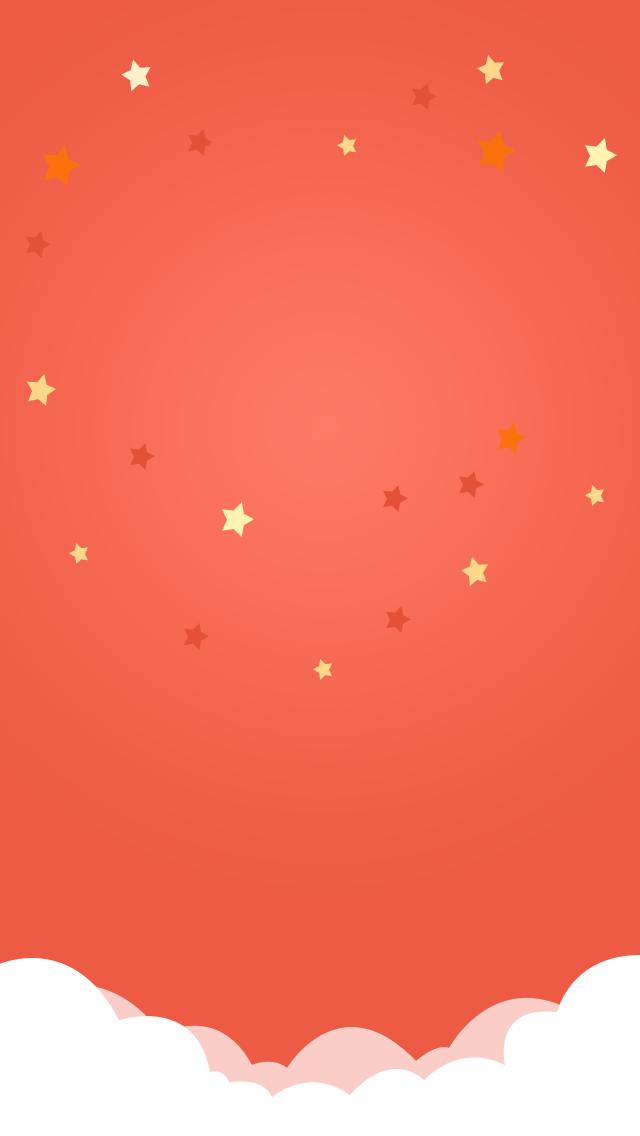
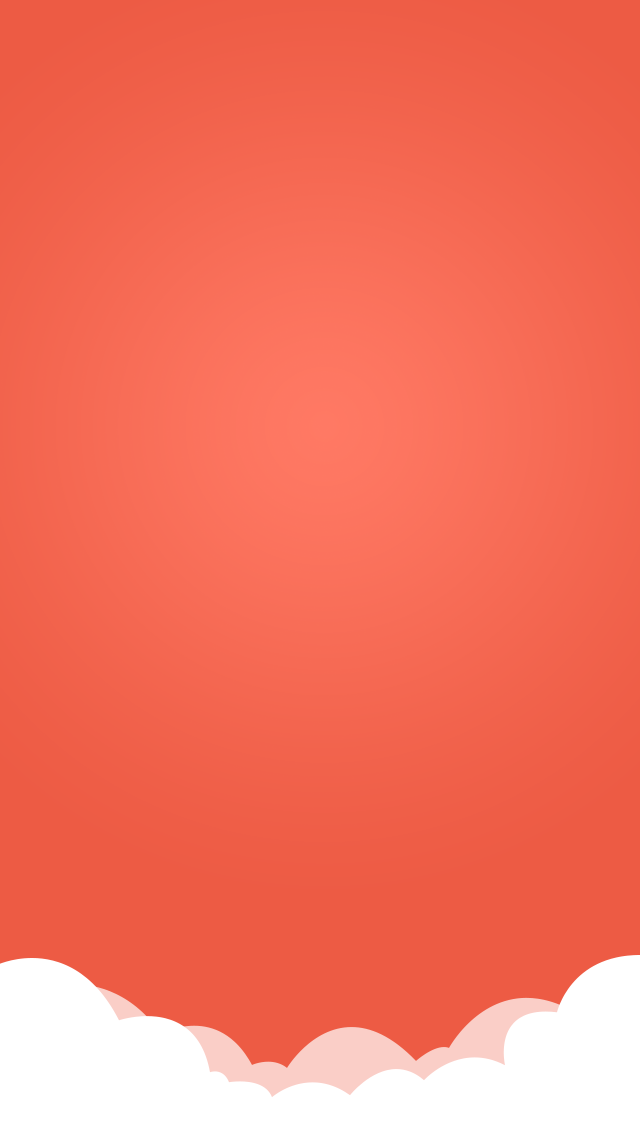
Fix iPhone 6 and iPhone 6 plus

diff --git a/p1/css/style.css b/p1/css/style.css
@@ -1,1 +1,1 @@
-a,abbr,acronym,address,applet,article,aside,audio,b,big,blockquote,body,canvas,caption,center,cite,code,dd,del,details,dfn,div,dl,dt,em,embed,fieldset,figcaption,figure,footer,form,h1,h2,h3,h4,h5,h6,header,hgroup,html,i,iframe,img,ins,kbd,label,legend,li,mark,menu,nav,object,ol,output,p,pre,q,ruby,s,samp,section,small,span,strike,strong,sub,summary,sup,table,tbody,td,tfoot,th,thead,time,tr,tt,u,ul,var,video{margin:0;padding:0;border:0;font:inherit;font-size:100%;vertical-align:baseline}html{line-height:1}ol,ul{list-style:none}table{border-collapse:collapse;border-spacing:0}caption,td,th{text-align:left;font-weight:400;vertical-align:middle}blockquote,q{quotes:none}blockquote:after,blockquote:before,q:after,q:before{content:"";content:none}a img{border:none}article,aside,details,figcaption,figure,footer,header,hgroup,main,menu,nav,section,summary{display:block}body{width:640px;height:1136px;background:url(../img/bg01.png) no-repeat}body #stars{position:absolute;top:15%;left:5%;z-index:-1;-moz-animation-name:blink;-webkit-animation-name:blink;animation-name:blink;-moz-animation-duration:150ms;-webkit-animation-duration:150ms;animation-duration:150ms;-moz-animation-timing-function:linear;-webkit-animation-timing-function:linear;animation-timing-function:linear;-moz-animation-direction:alternate;-webkit-animation-direction:alternate;animation-direction:alternate;-moz-animation-iteration-count:infinite;-webkit-animation-iteration-count:infinite;animation-iteration-count:infinite}#content #animal div img.penguins,#content #animal div img.shadow{-moz-animation-duration:150ms;-webkit-animation-duration:150ms;-moz-animation-timing-function:linear;-webkit-animation-timing-function:linear;-moz-animation-direction:alternate;-webkit-animation-direction:alternate;-moz-animation-iteration-count:infinite;-webkit-animation-iteration-count:infinite}#content #logo{text-align:center;padding-top:70px}#content #animal div{display:inline-block;position:relative}#content #animal div img.penguins{position:relative;-moz-animation-name:jumping;-webkit-animation-name:jumping;animation-name:jumping;animation-duration:150ms;animation-timing-function:linear;animation-direction:alternate;animation-iteration-count:infinite}#content #animal div img.shadow{position:absolute;bottom:0;z-index:-1;-moz-animation-name:shadow;-webkit-animation-name:shadow;animation-name:shadow;animation-duration:150ms;animation-timing-function:linear;animation-direction:alternate;animation-iteration-count:infinite}#content #animal #left{left:60px;top:-75px}#content #animal #left img.shadow{left:5px}#content #animal #middle{left:40px;top:105px}#content #animal #middle img:first-child{position:absolute;left:0;top:-25px;-moz-animation-name:blink;-webkit-animation-name:blink;animation-name:blink;-moz-animation-duration:150ms;-webkit-animation-duration:150ms;animation-duration:150ms;-moz-animation-timing-function:linear;-webkit-animation-timing-function:linear;animation-timing-function:linear;-moz-animation-direction:alternate;-webkit-animation-direction:alternate;animation-direction:alternate;-moz-animation-iteration-count:infinite;-webkit-animation-iteration-count:infinite;animation-iteration-count:infinite}#content #animal #middle img:last-child{left:115px}#content #animal #right{right:0;top:-70px}#content #animal #right img.shadow{left:45px}@-moz-keyframes jumping{from{top:0}to{top:-25px}}@-webkit-keyframes jumping{from{top:0}to{top:-25px}}@keyframes jumping{from{top:0}to{top:-25px}}@-moz-keyframes shadow{from{width:auto}to{width:35%}}@-webkit-keyframes shadow{from{width:auto}to{width:35%}}@keyframes shadow{from{width:auto}to{width:35%}}@-moz-keyframes blink{0%{opacity:0}100%{opacity:1}}@-webkit-keyframes blink{0%{opacity:0}100%{opacity:1}}@keyframes blink{0%{opacity:0}100%{opacity:1}}@media (max-width:320px) and (orientation:portrait) and (-webkit-min-device-pixel-ratio:2){body{width:320px;height:568px}}@media (min-width:375px) and (orientation:portrait) and (-webkit-min-device-pixel-ratio:2){body{width:375px;height:667px}}@media (min-width:667px) and (max-width:667px) and (orientation:landscape) and (-webkit-min-device-pixel-ratio:2){#header img{min-width:667px}}@media (min-width:736px) and (max-width:736px) and (orientation:landscape) and (-webkit-min-device-pixel-ratio:2){#header img{min-width:667px}}
+a,abbr,acronym,address,applet,article,aside,audio,b,big,blockquote,body,canvas,caption,center,cite,code,dd,del,details,dfn,div,dl,dt,em,embed,fieldset,figcaption,figure,footer,form,h1,h2,h3,h4,h5,h6,header,hgroup,html,i,iframe,img,ins,kbd,label,legend,li,mark,menu,nav,object,ol,output,p,pre,q,ruby,s,samp,section,small,span,strike,strong,sub,summary,sup,table,tbody,td,tfoot,th,thead,time,tr,tt,u,ul,var,video{margin:0;padding:0;border:0;font:inherit;font-size:100%;vertical-align:baseline}html{line-height:1}ol,ul{list-style:none}table{border-collapse:collapse;border-spacing:0}caption,td,th{text-align:left;font-weight:400;vertical-align:middle}blockquote,q{quotes:none}blockquote:after,blockquote:before,q:after,q:before{content:"";content:none}a img{border:none}article,aside,details,figcaption,figure,footer,header,hgroup,main,menu,nav,section,summary{display:block}body{width:640px;height:1136px;background:url(../img/bg01.png) no-repeat}body #stars{position:absolute;top:8em;left:1.5em;z-index:-1;-moz-animation-name:blink;-webkit-animation-name:blink;animation-name:blink;-moz-animation-duration:150ms;-webkit-animation-duration:150ms;animation-duration:150ms;-moz-animation-timing-function:linear;-webkit-animation-timing-function:linear;animation-timing-function:linear;-moz-animation-direction:alternate;-webkit-animation-direction:alternate;animation-direction:alternate;-moz-animation-iteration-count:infinite;-webkit-animation-iteration-count:infinite;animation-iteration-count:infinite}#content #animal div img.penguins,#content #animal div img.shadow{-moz-animation-duration:150ms;-webkit-animation-duration:150ms;-moz-animation-timing-function:linear;-webkit-animation-timing-function:linear;-moz-animation-direction:alternate;-webkit-animation-direction:alternate;-moz-animation-iteration-count:infinite;-webkit-animation-iteration-count:infinite}#content{height:calc(100% - 130px)}#content #logo{text-align:center;padding-top:70px}#content #animal div{display:inline-block;position:relative}#content #animal div img.penguins{position:relative;-moz-animation-name:jumping;-webkit-animation-name:jumping;animation-name:jumping;animation-duration:150ms;animation-timing-function:linear;animation-direction:alternate;animation-iteration-count:infinite}#content #animal div img.shadow{position:absolute;bottom:0;z-index:-1;-moz-animation-name:shadow;-webkit-animation-name:shadow;animation-name:shadow;animation-duration:150ms;animation-timing-function:linear;animation-direction:alternate;animation-iteration-count:infinite}#content #animal #left{left:60px;top:-75px}#content #animal #left img.shadow{left:5px}#content #animal #middle{left:40px;top:105px}#content #animal #middle img:first-child{position:absolute;left:0;top:-25px;-moz-animation-name:blink;-webkit-animation-name:blink;animation-name:blink;-moz-animation-duration:150ms;-webkit-animation-duration:150ms;animation-duration:150ms;-moz-animation-timing-function:linear;-webkit-animation-timing-function:linear;animation-timing-function:linear;-moz-animation-direction:alternate;-webkit-animation-direction:alternate;animation-direction:alternate;-moz-animation-iteration-count:infinite;-webkit-animation-iteration-count:infinite;animation-iteration-count:infinite}#content #animal #middle img:last-child{left:115px}#content #animal #right{right:0;top:-70px}#content #animal #right img.shadow{left:45px}@-moz-keyframes jumping{from{top:0}to{top:-25px}}@-webkit-keyframes jumping{from{top:0}to{top:-25px}}@keyframes jumping{from{top:0}to{top:-25px}}@-moz-keyframes shadow{from{width:auto}to{width:35%}}@-webkit-keyframes shadow{from{width:auto}to{width:35%}}@keyframes shadow{from{width:auto}to{width:35%}}@-moz-keyframes blink{0%{opacity:0}100%{opacity:1}}@-webkit-keyframes blink{0%{opacity:0}100%{opacity:1}}@keyframes blink{0%{opacity:0}100%{opacity:1}}@media (min-width:667px) and (max-width:667px) and (orientation:landscape) and (-webkit-min-device-pixel-ratio:2){body{width:100%;height:100%;background:url(../img/bg01.png) center no-repeat;background-size:cover}#header img{min-width:667px}}@media (min-width:736px) and (max-width:736px) and (orientation:landscape) and (-webkit-min-device-pixel-ratio:2){body{width:100%;height:100%;background:url(../img/bg01.png) center no-repeat;background-size:cover}#header img{min-width:667px}}

diff --git a/p1/sass/style.scss b/p1/sass/style.scss
@@ -6,16 +6,12 @@
 body {
   width: $original-width;
   height: $original-height;
-  // position: relative;
   background: url(../img/bg01.png) no-repeat;
-  // background-size: contain;
 
-  // display: block;
-  // margin: 0 auto;
   #stars {
     position: absolute;
-    top: 15%;
-    left: 5%;
+    top: 8em;
+    left: 1.5em;
     z-index: -1;
     @include animation-name(blink);
     @include animation-duration(150ms);
@@ -26,6 +22,7 @@ body {
 }
 
 #content {
+  height: calc(100% - 130px);
   #logo {
     text-align: center;
     padding-top: 70px;
@@ -110,34 +107,16 @@ body {
   100% { opacity: 1; }
 }
 
-@media (max-width: $iphone-width)
-  and (orientation: portrait)
-  and (-webkit-min-device-pixel-ratio: 2) {
-  body {
-    width: $iphone-width;
-    height: $iphone5-height;
-  }
-}
-
-@media (min-width: $iphone6-width)
-  and (orientation: portrait)
-  and (-webkit-min-device-pixel-ratio: 2) {
-  body {
-    width: $iphone6-width;
-    height: $iphone6-height;
-  }
-}
-
-@media (min-width: $iphone6plus-width)
-  and (orientation: portrait)
-  and (-webkit-min-device-pixel-ratio: 2) {
-
-}
-
 @media (min-width: $iphone6-height)
   and (max-width: $iphone6-height)
   and (orientation: landscape)
   and (-webkit-min-device-pixel-ratio: 2) {
+  body {
+    width: 100%;
+    height: 100%;
+    background: url(../img/bg01.png) no-repeat center;
+    background-size: cover;
+  }
   #header {
     img {
       min-width: $iphone6-height;
@@ -149,6 +128,12 @@ body {
   and (max-width: $iphone6plus-height)
   and (orientation: landscape)
   and (-webkit-min-device-pixel-ratio: 2) {
+  body {
+    width: 100%;
+    height: 100%;
+    background: url(../img/bg01.png) no-repeat center;
+    background-size: cover;
+  }
   #header {
     img {
       min-width: $iphone6-height;
